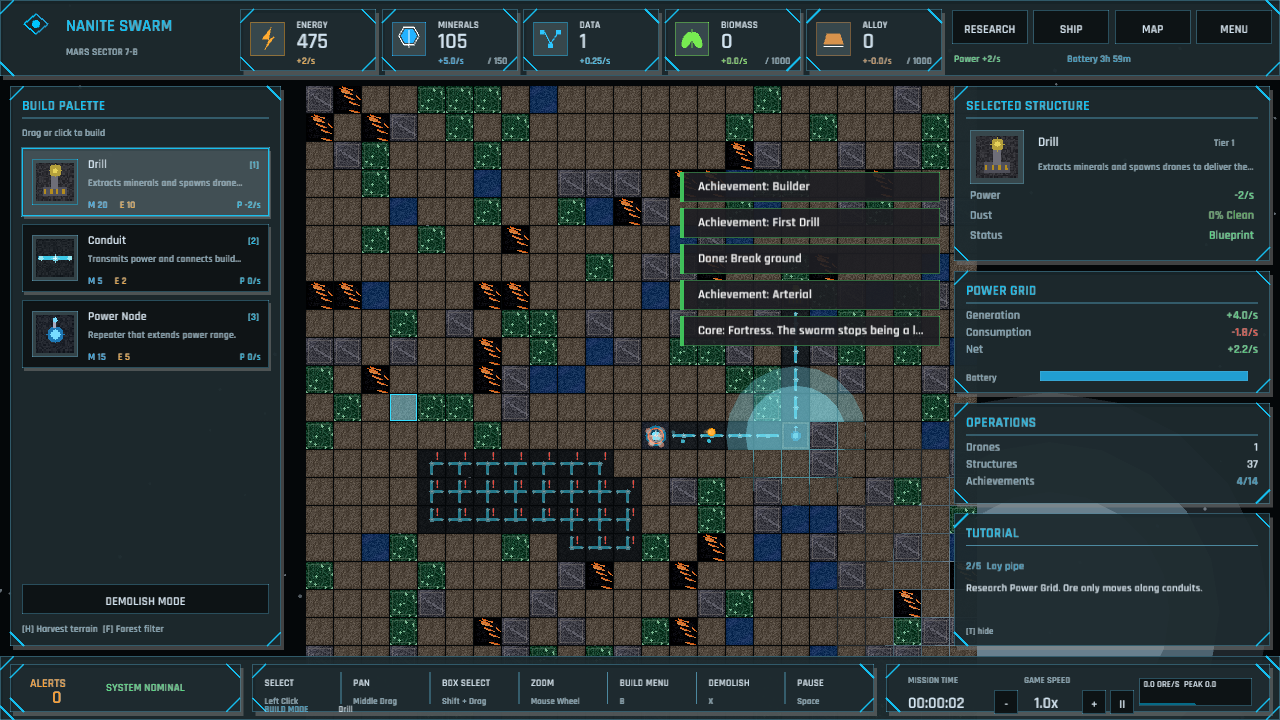
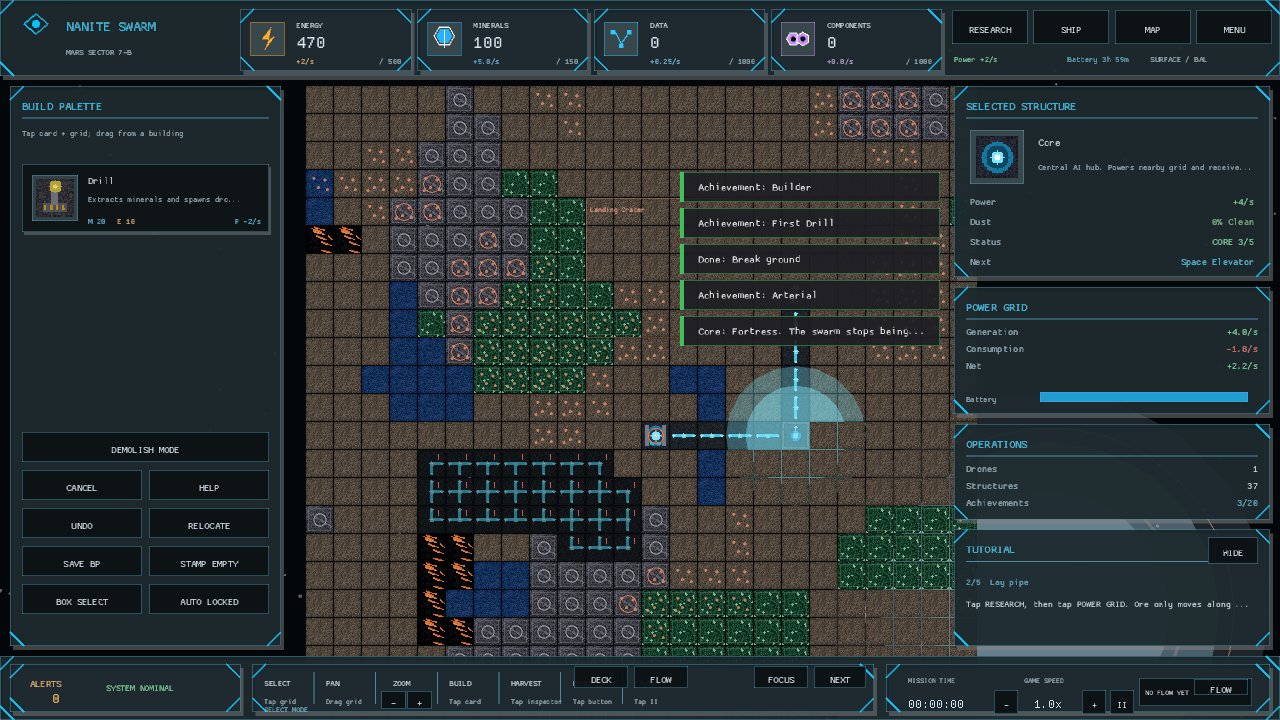
The Core answers when it will grow (planetary inspector, Core progression)
The planetary inspector treated the Core like an ordinary structure and showed the ground's Ore row, so its evolution was only visible in the Factory Deck or a fading notice.\n\nThe Core now reports its current stage in the Status row and the next stage in the detail row, with a fully evolved terminal label. The existing Core progression capture now selects the Core to verify the ordinary inspector path, and tests and controls documentation cover the behavior.\n\nCo-Authored-By: Claude Opus 4.8 (1M context) <noreply@anthropic.com>

diff --git a/src/screens/planetary_view/hud/inspector_panel.rs b/src/screens/planetary_view/hud/inspector_panel.rs
@@ -208,7 +208,17 @@ pub(super) fn draw(
         // and drill placement is guesswork.
         let has_recipe = !data.building(building_type.id()).recipe.is_empty();
         if row_layout.show_detail_rows && !has_recipe {
-            if let Some(tile) = display_pos.and_then(|pos| state.grid.get(pos)) {
+            if building_type == BuildingType::Core {
+                draw_status_row(
+                    theme,
+                    right_x + 16.0,
+                    row_base + row_gap * 3.0,
+                    right_w - 32.0,
+                    "Next",
+                    &core_next_stage_label(state),
+                    colors.primary,
+                );
+            } else if let Some(tile) = display_pos.and_then(|pos| state.grid.get(pos)) {
                 let (ore_label, ore_color) = ore_status(tile.ore_richness, colors);
                 draw_status_row(
                     theme,
@@ -270,6 +280,7 @@ pub(super) fn draw(
             match building_type {
                 BuildingType::MassDriver => status_text = state.export_summary(tile_pos),
                 BuildingType::LandingPad => status_text = state.pad_summary(tile_pos),
+                BuildingType::Core => status_text = core_stage_status_text(state),
                 _ => {}
             }
         }
@@ -627,6 +638,22 @@ fn flow_resource_name(resource: crate::engine::ResourceType) -> &'static str {
         crate::engine::ResourceType::Components => "Parts",
         _ => crate::state::cargo_name(resource),
     }
+}
+
+fn core_stage_status_text(state: &PlanetState) -> String {
+    format!(
+        "CORE {}/{}",
+        state.core_stage_index() + 1,
+        state.core_stages().len()
+    )
+}
+
+fn core_next_stage_label(state: &PlanetState) -> String {
+    state
+        .core_stages()
+        .get(state.core_stage_index() + 1)
+        .map(|stage| stage.name.clone())
+        .unwrap_or_else(|| "FULLY EVOLVED".to_string())
 }
 
 #[derive(Debug, Clone, Copy, PartialEq)]

diff --git a/src/screens/planetary_view/hud/inspector_panel/tests.rs b/src/screens/planetary_view/hud/inspector_panel/tests.rs
@@ -90,3 +90,15 @@ fn a_full_dispatch_pad_is_named_before_it_can_hide_as_idle() {
     let flow = recipe_flow_data(&state, pos, BuildingType::Smelter).unwrap();
     assert_eq!(recipe_status(&flow, true), "Output pad full");
 }
+
+#[test]
+fn core_inspector_names_its_current_and_next_evolution() {
+    let mut state = PlanetState::new(2, 42, GameConfig::default());
+
+    assert_eq!(core_stage_status_text(&state), "CORE 1/5");
+    assert_eq!(core_next_stage_label(&state), "Foundry");
+
+    state.core_stage = (state.core_stages().len() - 1) as u8;
+    assert_eq!(core_stage_status_text(&state), "CORE 5/5");
+    assert_eq!(core_next_stage_label(&state), "FULLY EVOLVED");
+}

diff --git a/src/capture_scenes/scenes.rs b/src/capture_scenes/scenes.rs
@@ -233,6 +233,11 @@ impl Game {
                 }
                 planet.grid.update_power_grid();
                 planet.step(state::TICK_SECONDS, false);
+                // The Core progression scene should also prove that selecting
+                // the evolving structure exposes its stage in the ordinary
+                // inspector, not only in the Factory Deck.
+                planet.selected_building = None;
+                planet.selected_tile = planet.grid.find_core();
             }
             // A run cut in the middle, with drones stalled beyond the break.
             "severed" => {

diff --git a/README.md b/README.md
@@ -55,6 +55,8 @@ each pod under a `full route` heading, so simultaneous routes remain
 distinguishable.
 Tap CANCEL to abandon a build, relocation, box-selection, or pending purge
 confirmation before the next map tap.
+Tap the Core to inspect its current evolution stage and the next stage it is
+working toward.
 If a dragged conduit route spends its last resources, the route pauses and
 reports the exact mineral and energy cost of the next segment once per gesture.
 The bottom graph records observed ore, alloy, and parts flow; tap its visible
